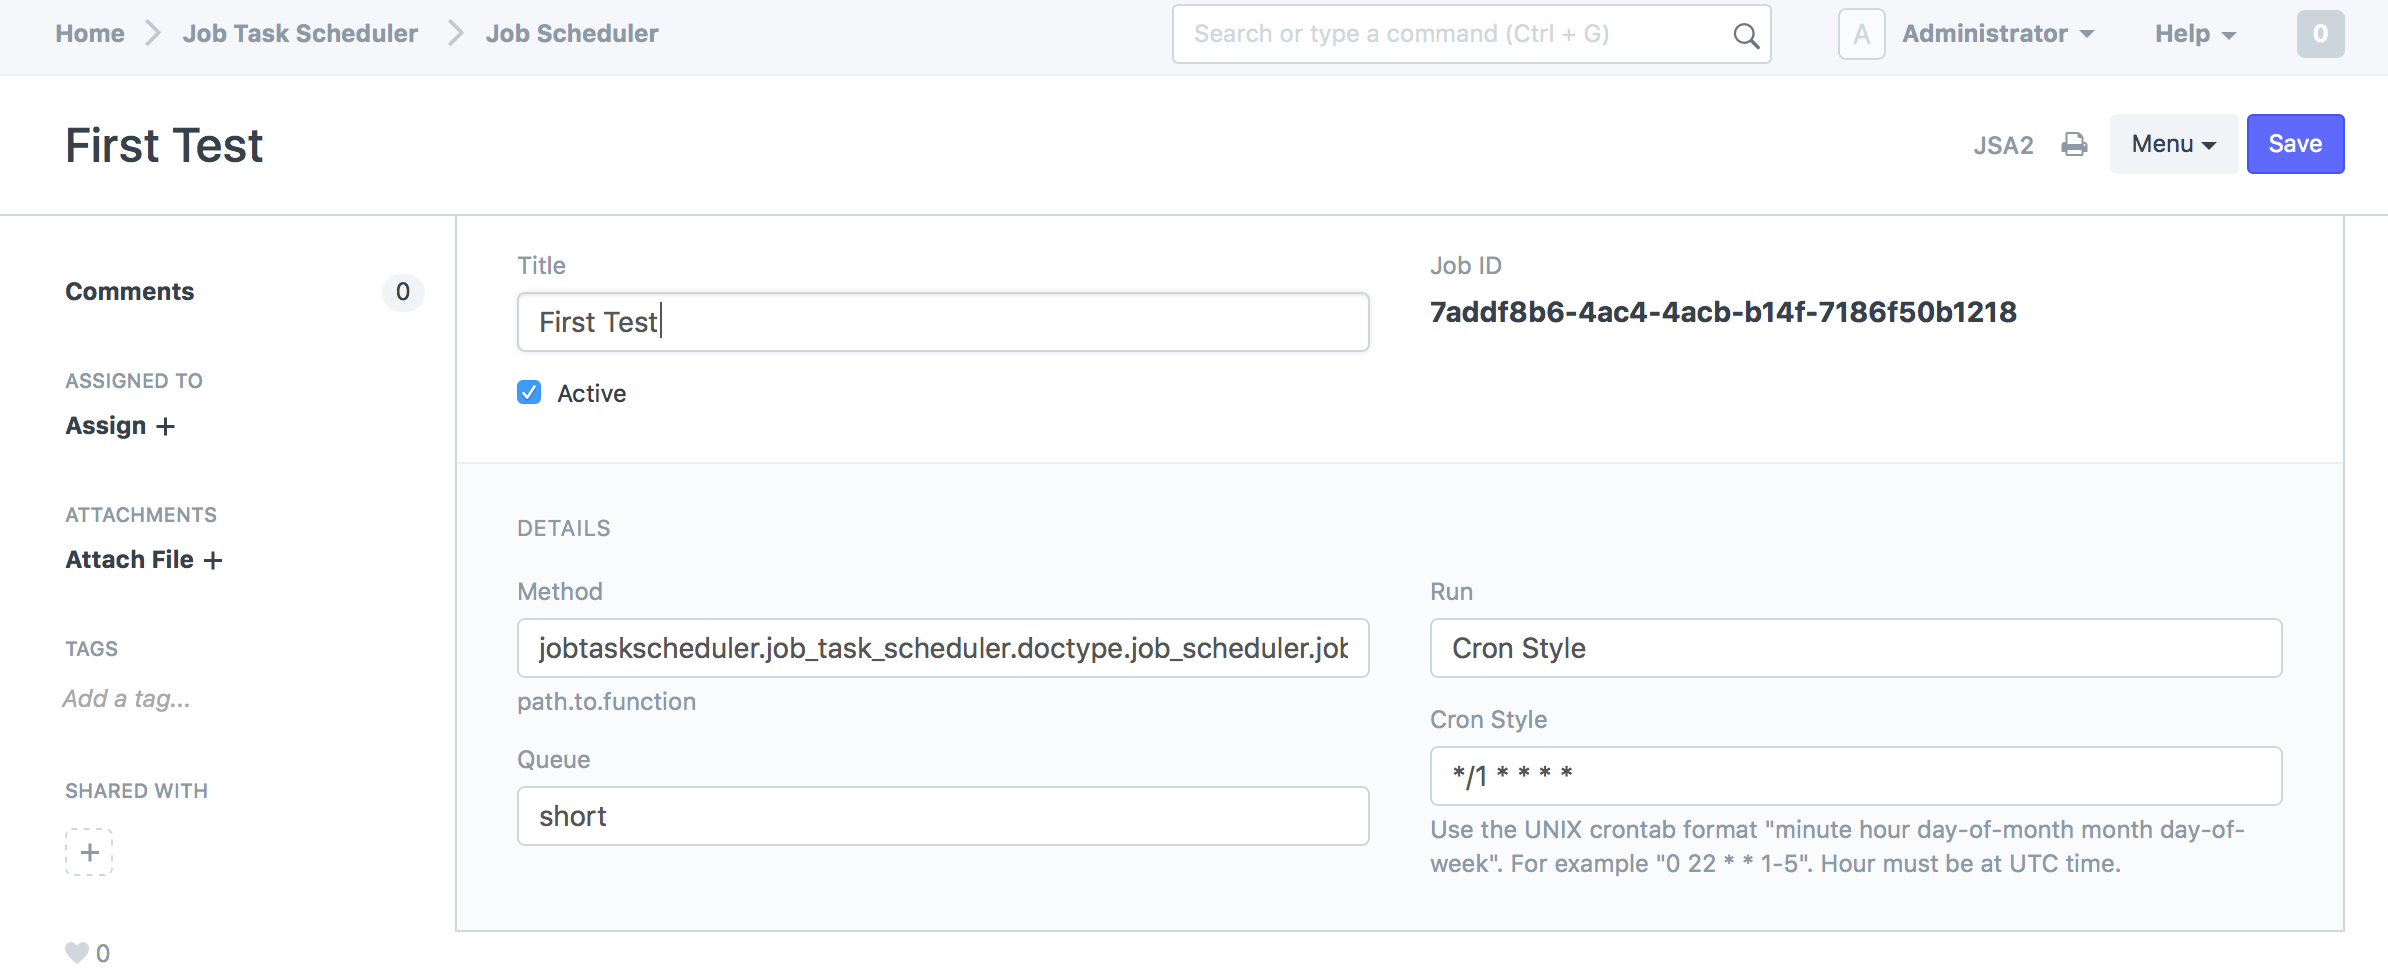
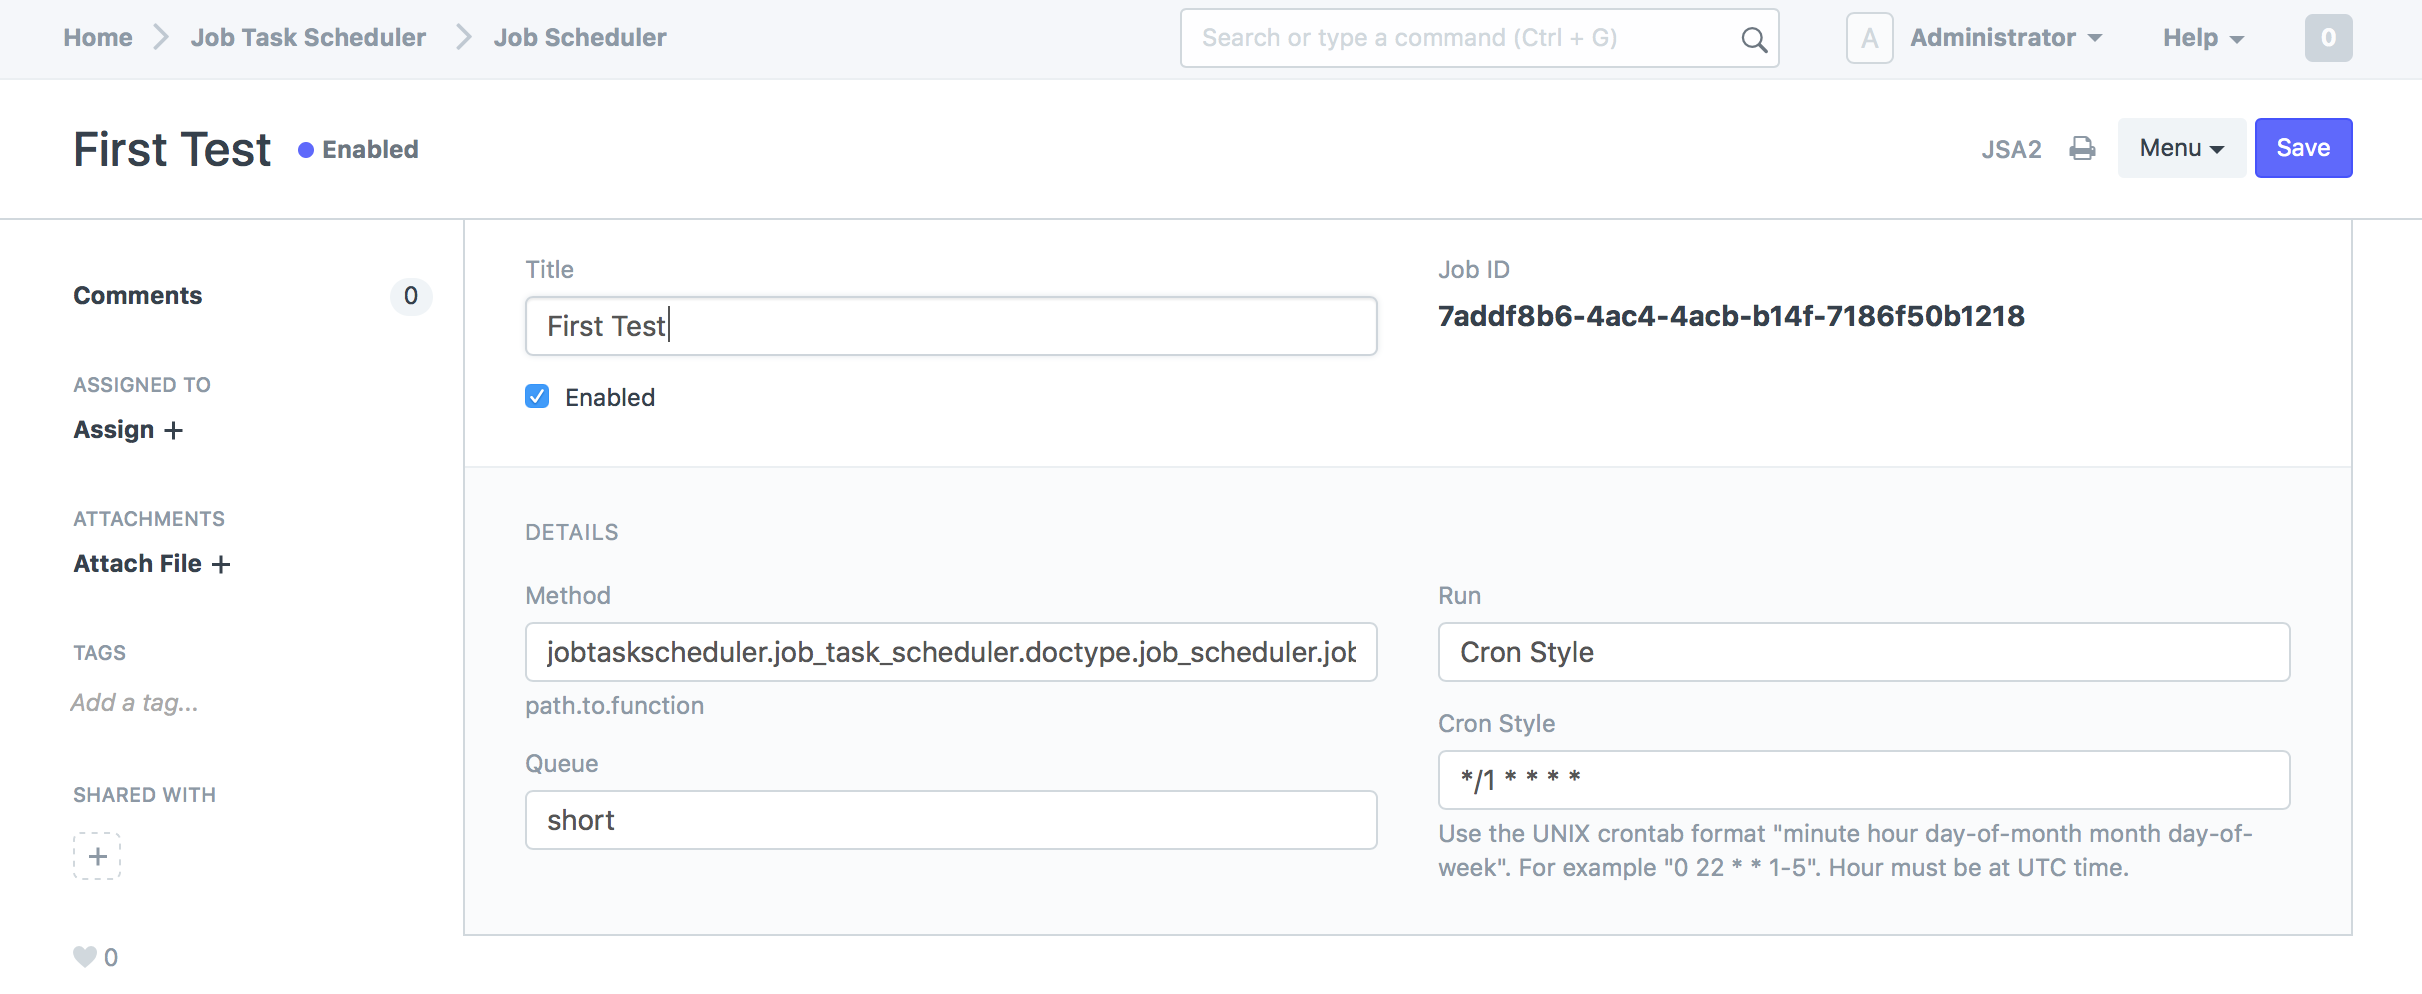
Added user docs

diff --git a/user/index.html b/user/index.html
@@ -1,0 +1,199 @@
+<!DOCTYPE html>
+<!-- Built on Frappe. https://frappe.io/ -->
+<html lang="en">
+<head>
+	<meta charset="utf-8">
+	<meta name="viewport" content="width=device-width, initial-scale=1.0">
+	<title>How to Job Task Scheduler</title>
+	<meta name="generator" content="frappe">
+    <link type="text/css" rel="stylesheet" href="https://giovanni-codrotech.github.io/jobtaskscheduler/assets/css/bootstrap.css">
+    <link type="text/css" rel="stylesheet" href="https://giovanni-codrotech.github.io/jobtaskscheduler/assets/css/hljs.css">
+    <link type="text/css" rel="stylesheet" href="https://giovanni-codrotech.github.io/jobtaskscheduler/assets/css/font-awesome.css">
+    <link type="text/css" rel="stylesheet" href="https://giovanni-codrotech.github.io/jobtaskscheduler/assets/css/octicons/octicons.css">
+    <link type="text/css" rel="stylesheet" href="https://giovanni-codrotech.github.io/jobtaskscheduler/assets/css/docs.css">
+
+    
+	<link rel="shortcut icon"
+		href="/assets/img/favicon.ico"
+		type="image/x-icon">
+	<link rel="icon"
+		href="/assets/img/favicon.ico"
+		type="image/x-icon">
+    
+
+		</head>
+<body data-path="user">
+	<div class="main-section">
+		<div>
+				<header>
+	<nav class="navbar navbar-default navbar-main" role="navigation">
+		<div class="container">
+			<div class="navbar-header">
+				<a class="navbar-brand ellipsis"
+					 href="https://giovanni-codrotech.github.io/jobtaskscheduler//">
+					<span>Job Task Scheduler</span>
+				</a>
+				<div class="dropdown">
+					<button class="btn btn-default navbar-toggle" type="button" data-toggle="dropdown" aria-haspopup="true" aria-expanded="true">
+						<i class="octicon octicon-three-bars"></i>
+					</button>
+					<ul class="dropdown-menu dropdown-menu-right">
+<li data-label='<i class="octicon octicon-search"></i>' >
+	<a href="/#"
+		
+		>
+	<i class="octicon octicon-search"></i></a></li><li data-label='User Guide' >
+	<a href="https://giovanni-codrotech.github.io/jobtaskscheduler/user"
+		
+		>
+	User Guide</a></li><li data-label='Developer Docs' >
+	<a href="https://giovanni-codrotech.github.io/jobtaskscheduler/current"
+		
+		>
+	Developer Docs</a></li>
+
+<li class="divider"></li>
+<!-- post login tools -->
+
+</ul>
+				</div>
+			</div>
+			<div class="hidden-xs">
+				
+				<ul class="nav navbar-nav navbar-left">
+</ul>
+<ul class="nav navbar-nav navbar-right"><li data-label='<i class="octicon octicon-search"></i>' >
+	<a href="/#"
+		
+		>
+	<i class="octicon octicon-search"></i></a></li><li data-label='User Guide' >
+	<a href="https://giovanni-codrotech.github.io/jobtaskscheduler/user"
+		
+		>
+	User Guide</a></li><li data-label='Developer Docs' >
+	<a href="https://giovanni-codrotech.github.io/jobtaskscheduler/current"
+		
+		>
+	Developer Docs</a></li>
+	
+	<!-- post login tools -->
+
+</ul>
+				
+			</div>
+		</div>
+	</nav>
+</header><div class="hero-and-content">
+                <div data-html-block="hero"></div>
+                <div class="container" data-html-block="content">
+                
+<div class="page-container" id="page-user" data-path="{{ pathname }}"
+	>
+			<div class="row ">
+				
+				<div class=" page-content col-sm-12 ">
+					<div class="page-content-wrapper">
+						<div class="row page-head">
+							<div class='col-sm-12'>
+								
+								<div class="page-breadcrumbs">
+									
+									
+									
+								</div>
+								
+							</div>
+							<div class="col-sm-8 col-xs-6">
+								
+							</div>
+							<div class="col-sm-4 col-xs-6">
+								
+
+								
+							</div>
+						</div>
+					</div>
+					<div class="page_content">
+<h1>How to Job Task Scheduler</h1>
+
+<h3>1. Insert a Job Task</h3>
+
+<p><img class="screenshot" src="https://giovanni-codrotech.github.io/jobtaskscheduler/assets/img/insert.png"></p>
+
+<h3>2. Once saved job is scheduled and job_id will be showed</h3>
+
+<p><img class="screenshot" src="https://giovanni-codrotech.github.io/jobtaskscheduler/assets/img/home.png"></p>
+
+<h3>3. List Job Scheduled</h3>
+
+<p><img class="screenshot" src="https://giovanni-codrotech.github.io/jobtaskscheduler/assets/img/list.png"></p>
+
+<blockquote>
+  <p>Note: Enabled jobs will be scheduled at bench start</p>
+</blockquote>
+
+</div>
+				</div>
+			</div>
+</div>
+
+				
+<div class="page-container">
+	<div class="page-content">
+	<div class="edit-container text-center">
+		<i class="icon icon-smile"></i>
+		<a class="text-muted edit" href="https://github.com/giovanni-codrotech/jobtaskscheduler/blob/develop/jobtaskscheduler/docs/user/index.md">
+			Improve this page
+		</a>
+	</div>
+	</div>
+</div>
+                </div>
+            </div>
+			<footer class="docs-footer">
+				<div class="container"><div class="built-with-frappe text-center">
+                    <img class="frappe-bird" src="https://giovanni-codrotech.github.io/jobtaskscheduler/assets/img/frappe-bird-grey.svg">
+                    <h3>By Codrotech Inc.</h3>
+                </div>
+                <div class="text-center">
+                    <ul class="list-unstyled">
+                        <li>
+                            <a href="https://github.com/giovanni-codrotech/jobtaskscheduler">
+                            Source</a>
+                        </li>
+                        <li>
+                            <a href="https://github.com/giovanni-codrotech/jobtaskscheduler/issues">
+                            Issues</a>
+                        </li>
+                        <li>
+                            <a href="https://giovanni-codrotech.github.io/jobtaskscheduler/license.html">
+                            License</a>
+                        </li>
+                        <li>
+                            <a href="https://discuss.erpnext.com">
+                            Forum</a>
+                        </li>
+                        <li>
+                            <a href="https://frappe.io/apps">
+                            Frappe Apps</a>
+                        </li>
+                    </ul>
+                </div>
+
+            </div>
+			</footer>
+		</div>
+	</div>
+
+	<script type="text/javascript" src="https://giovanni-codrotech.github.io/jobtaskscheduler/assets/js/jquery.min.js"></script>
+	<script type="text/javascript" src="https://giovanni-codrotech.github.io/jobtaskscheduler/assets/js/bootstrap.min.js"></script>
+	<script type="text/javascript" src="https://giovanni-codrotech.github.io/jobtaskscheduler/assets/js/highlight.pack.js"></script>
+	<script type="text/javascript" src="https://giovanni-codrotech.github.io/jobtaskscheduler/assets/js/docs.js"></script>
+
+	<!-- js should be loaded in body! -->
+	<script>
+        window.docs_base_url = "https://giovanni-codrotech.github.io/jobtaskscheduler";
+    </script>
+
+	<!-- csrf_token --></body>
+</html>

diff --git a/current/models/job_task_scheduler/job_scheduler.html b/current/models/job_task_scheduler/job_scheduler.html
@@ -177,11 +177,11 @@
         
         <tr >
             <td>2</td>
-            <td ><code>active</code></td>
+            <td ><code>enabled</code></td>
             <td >
                 Check</td>
             <td >
-                Active
+                Enabled
                 
             </td>
             <td></td>
